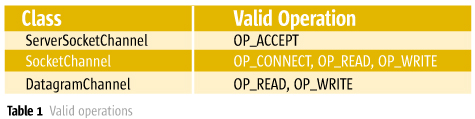
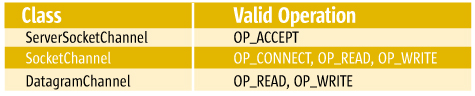
study nio fm

diff --git a/java/air-io-network/doc/mina/Mina 2.0.7.md b/java/air-io-network/doc/mina/Mina 2.0.7.md
@@ -15,7 +15,7 @@
 ### MINA组件 ###
 ![Mina Components](http://mina.apache.org/staticresources/images/mina/mina_app_arch.png)
 
-#### MINA3层组件 ####
+#### MINA 3层组件 ####
 
 ##### - I/O Service：处理I/O操作 #####
 
@@ -31,6 +31,9 @@
 - exceptionCaught
 - messageReceived
 - messageSent
+
+#### MINA 工作流 ####
+![](../img/mina_workflow.png)
 
 ### IoService ###
 #### IoAcceptor ####
@@ -52,19 +55,39 @@
 ![](http://mina.apache.org/staticresources/images/mina/IoServiceConnector.png)
 
 ### Session ###
+- Connected : the session has been created and is available
+- Idle : the session hasn't processed any request for at least a period of time (this period is configurable)
+	- Idle for read : no read has actually been made for a period of time
+	- Idle for write : no write has actually been made for a period of time
+	- Idle for both : no read nor write for a period of time
+- Closing : the session is being closed (the remaining messages are being flushed, cleaning up is not terminated)
+- Closed : The session is now closed, nothing else can be done to revive it.
 ![](http://mina.apache.org/staticresources/images/mina/session-state.png)
 
 ### Filters ###
-
+- Blacklist	**BlacklistFilter**	Blocks connections from blacklisted remote addresses
+- Buffered Write	 **BufferedWriteFilter**	Buffers outgoing requests like the BufferedOutputStream does
+- Compression	**CompressionFilter**	 
+- ConnectionThrottle	 **ConnectionThrottleFilter**	 
+- ErrorGenerating	**ErrorGeneratingFilter**	 
+- Executor	**ExecutorFilter**	 
+- FileRegionWrite	**FileRegionWriteFilter**	 
+- KeepAlive	**KeepAliveFilter**	 
+- Logging	**LoggingFilter**	Logs event messages, like MessageReceived, MessageSent, SessionOpened, ...
+- MDC Injection	**MdcInjectionFilter**	Inject key IoSession properties into the MDC
+- Noop	**NoopFilter**	A filter that does nothing. Useful for tests.
+- Profiler	**ProfilerTimerFilter**	Profile event messages, like MessageReceived, MessageSent, SessionOpened, ...
+- ProtocolCodec	**ProtocolCodecFilter**	A filter in charge of encoding and decoding messages
+- Proxy	**ProxyFilter**	 
+- Reference counting	 **ReferenceCountingFilter**	Keeps track of the number of usages of this filter
+- RequestResponse	**RequestResponseFilter**	 
+- SessionAttributeInitializing	**SessionAttributeInitializingFilter**	 
+- StreamWrite	**StreamWriteFilter**	 
+- SslFilter	**SslFilter**	 
+- WriteRequest	**WriteRequestFilter**
 ### Transports ###
 - APR Transport
 - Serial Transport
-
-### IoBuffer ###
-
-### Codec Filter ###
-
-### Logging Filter ###
 
 ### State Machine ###
 ![](http://mina.apache.org/staticresources/images/mina/state-diagram.png)

diff --git a/java/air-io-network/doc/readme.md b/java/air-io-network/doc/readme.md
@@ -4,6 +4,7 @@
 
 ### NIO Reactor ###
 ![NIO_Reactor_UML](img/2_NIO_Reactor_UML.png)
+![Valid_Operations](img/Valid_Operations.png)
 
 ### NIO Framework ###
 ![NIO_Reactor_as_a_Framework](img/3_NIO_Reactor_as_a_Framework.png)
@@ -13,4 +14,4 @@
 ### Handler’s_View ###
 ![A_Handler_View_of_the_World](img/5_A_Handler_View_of_the_World.png)
 
-![Valid_Operations](img/Valid_Operations.png)
+

diff --git a/java/air-io-network/doc/netty/4.0.15.md b/java/air-io-network/doc/netty/4.0.15.md
@@ -1,3 +1,4 @@
+### FEATURES ###
 ![](http://netty.io/images/components.png)
 
 ### [Examples](https://github.com/netty/netty/tree/master/example) ###
